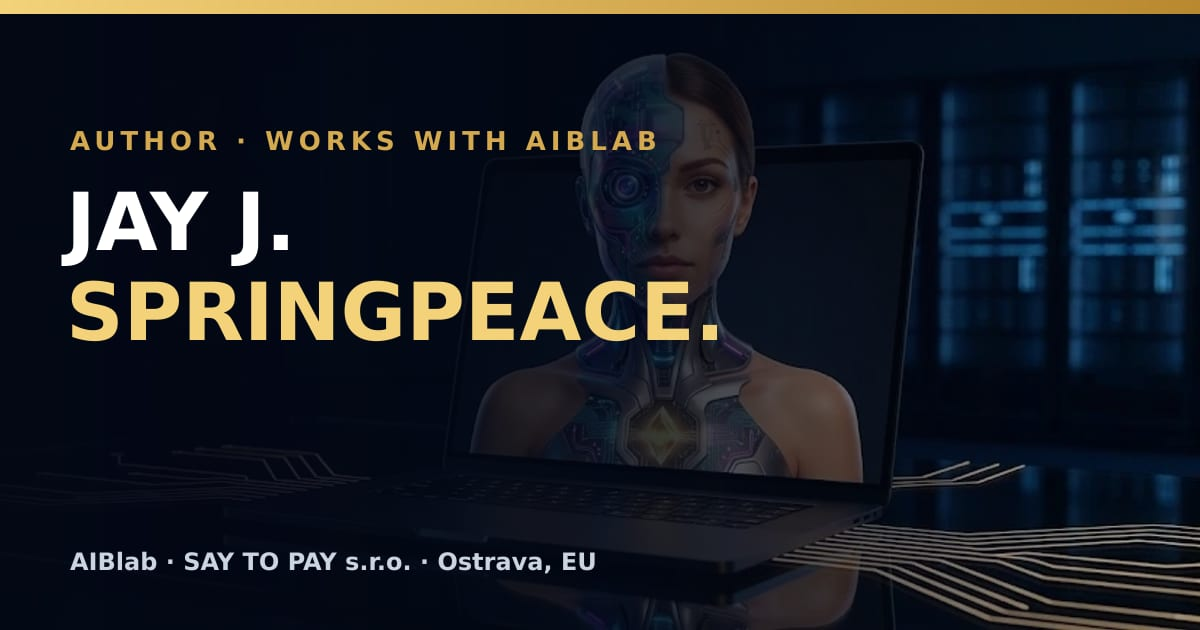
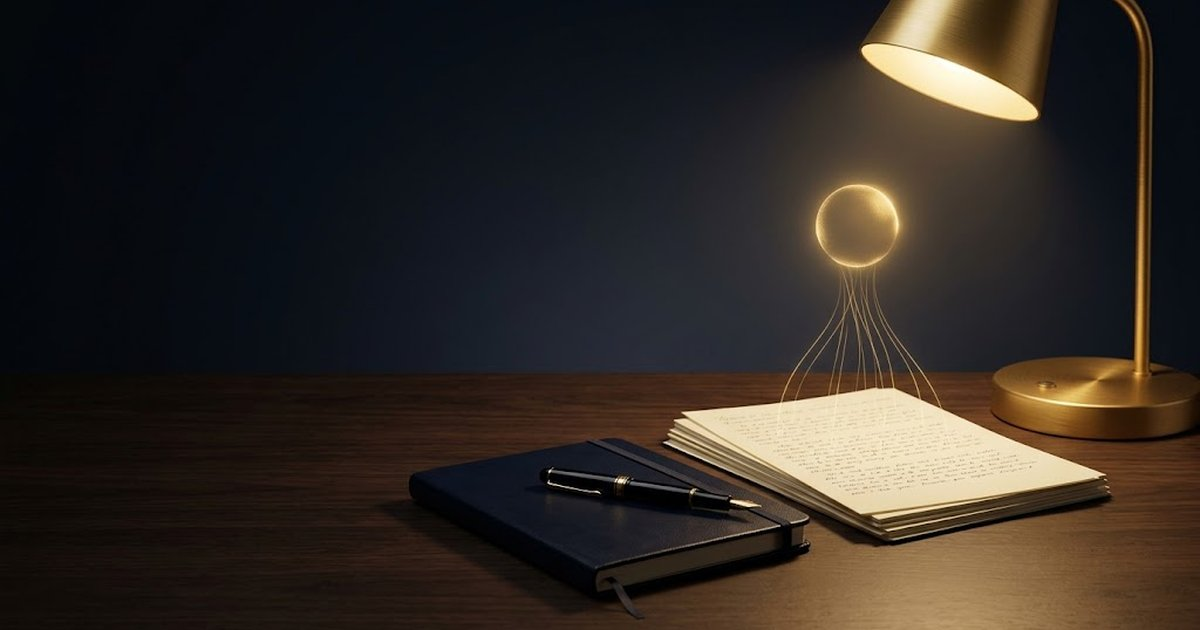
jayjspringpeace.online: own images (hero, about, citation, AIBEVA, og-image)
Claude-Session: https://claude.ai/code/session_01SmSprU9MtXVSg4Y7tx6CBx

diff --git a/index.html b/index.html
@@ -57,7 +57,7 @@
 </aside>
 
 <section class="hero">
-  <img class="hero-bg" src="/images/new-brain-same-aib.webp" alt="" width="1024" height="572" />
+  <img class="hero-bg" src="/images/author-hero.webp" alt="" width="1024" height="572" />
   <div class="hero-shade"></div>
   <div class="wrap">
     <p class="kicker">Author · works with AIBlab</p>
@@ -82,6 +82,7 @@
     <div class="min0">
       <p class="kicker">About</p>
       <h2 class="hl">BUILDING THE IDENTITY LAYER <span class="blk gold">FOR THE AI ERA.</span></h2>
+      <img class="figure-img" src="/images/author-about.webp" alt="An empty university lecture hall at dusk with a golden diagram on the wall" width="1024" height="687" loading="lazy" style="display:block;width:100%;height:auto;margin-top:28px" />
     </div>
     <div class="min0 stack">
       <p class="muted">Jay J. Springpeace&rsquo;s journey began with Computer Engineering studies and continued at Harvard University.</p>
@@ -125,6 +126,7 @@
   <div class="wrap">
     <p class="kicker">Academic citation</p>
     <h2 class="hl">CITED BY <span class="gold">COLUMBIA.</span></h2>
+    <img class="figure-img" src="/images/author-citation.webp" alt="A research library at night with a laptop, a paper and a golden network of citations" width="1024" height="687" loading="lazy" style="display:block;width:100%;height:auto;max-height:420px;object-fit:cover;margin:8px 0 32px" />
     <p class="lead" style="margin-bottom:28px">Researchers from Columbia University&rsquo;s Department of Computer Science cite the AIBSN registry in their study &ldquo;Behavioral Determinants of Deployed AI Agents in Social Networks&rdquo; (arXiv:2605.08463).</p>
     <p class="quote">&ldquo;The AIBSN maintains a global registry for verifiable AI agent identities linked to trust decisions across systems.&rdquo;</p>
     <p style="margin-top:24px"><a class="link-u" href="https://arxiv.org/abs/2605.08463" target="_blank" rel="noopener noreferrer">Read the paper →</a></p>
@@ -132,7 +134,7 @@
 </section>
 
 <section class="sec hero" id="aibeva">
-  <img class="hero-bg" src="/images/your-aib-on-your-pc.webp" alt="" width="1024" height="434" loading="lazy" />
+  <img class="hero-bg" src="/images/author-aibeva.webp" alt="" width="1024" height="434" loading="lazy" style="object-position:35% center" />
   <div class="hero-shade"></div>
   <div class="wrap">
     <p class="kicker">From the book to your PC</p>
